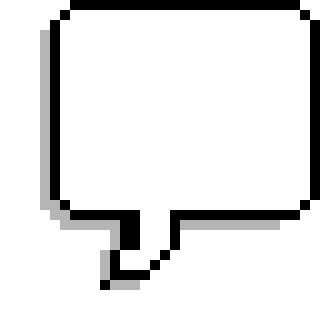
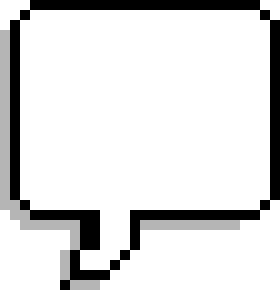
many changes
text now animates

Changed region(s): [[0.0, 0.0, 1.0, 1.0]]

diff --git a/web00.html b/web00.html
@@ -48,15 +48,15 @@ Yeet: <input type="text" id='userInput' required> </input>
 <button onmouseover="test();moveAdam();">ok</button>
 	
 <div id="container">	
-    <div id="animate" onmouseover="moveAdam(true)" onmouseleave="">	
-	    <div id = "animateHead"><img src="adamHead.png">
+    <div id="animate" style='top:0px'>	
+	    <div id = "animateHead" style='top:0px'><img src="adamHead.png">
 	    </div>
 		
-	    <div id ="animateMouth">
+	    <div id ="animateMouth" style='top:0px'>
 		<img src="adamMouth.png" alt="adam sandler finds an abandoned shoe in the woods">
 	    </div>
 		
-		<div id="speechBubble"><img src="speech.png" onmouseover="speechWobble(true);talkAdam(true);playAudio('voice');" onmouseleave="pauseAudio('voice')" align="right">
+		<div id="speechBubble" onmouseover="speechWobble(true);playAudio('voice');" onmouseleave="pauseAudio('voice')" style='top:0px'><img src="speech.png" align="right">
 		</div>
 	</div>
 </div>
@@ -72,9 +72,25 @@ function pauseAudio(id){
     var oAudio = document.getElementById(id);
 	oAudio.pause();
 	}
-//This script moves adam sandlers head
+//This script moves adam sandlers  (using jQuery)
 
-function moveAdam(condition) {
+$('#animate').hover(function(e){
+	to = window.setInterval(doStuff, 5)
+	var elem = document.getElementById("animate")
+	var pos = parseInt(elem.style.top)
+	//console.log(pos)
+	function doStuff(){
+		pos++;
+		//console.log(pos)
+		elem.style.top = pos + "px"
+		//console.log('test output')
+	}
+}, function(e){window.clearInterval(to);
+
+})
+
+
+/*function moveAdam(condition) {
     var elem = document.getElementById("animate");
     var pos = elem.style.top;
     var id = setInterval(frame,5);
@@ -90,8 +106,34 @@ function moveAdam(condition) {
         }    
     }
 }
+*/
 //This script makes adam sandler talk
-function talkAdam(condition){
+
+
+$('#speechBubble').hover(function(e){
+	toMouth = window.setInterval(doStuff, 150)
+	var elem = document.getElementById("animateMouth")
+	elem.style.top = 0
+	var pos = parseInt(elem.style.top)
+	var upDown = true
+	//console.log(pos)
+	function doStuff(){
+		if (upDown){
+			pos+=8;
+			upDown=false;
+		}else{
+			pos-=8
+			upDown=true;
+		}
+		//console.log(pos)
+		elem.style.top = pos + "px"
+		//console.log('test output')
+	}
+}, function(e){window.clearInterval(toMouth);
+
+})
+
+/*function talkAdam(condition){
 	var elem = document.getElementById("animateMouth")
 	var pos = elem.style.top;
 	var id =setInterval(frame2,100);
@@ -111,6 +153,8 @@ function talkAdam(condition){
 	}
 	}
 }
+
+*/
 //This wobbles the text box
 function speechWobble(condition) {
     var elem = document.getElementById("speechBubble");
@@ -139,6 +183,16 @@ function  test(){
     var userInput = document.getElementById("userInput").value;
     document.getElementById("demo").innerHTML = userInput;
 	}
+	
+if ( window.addEventListener ) {  
+  var state = 0, konami = [38,38,40,40,37,39,37,39,66,65];  
+  window.addEventListener("keydown", function(e) {  
+    if ( e.keyCode == konami[state] ) state++;  
+    else state = 0;  
+    if ( state == 10 )  
+      window.location = "omfgdogs.html";  //you can write your own code here
+    }, true);  
+}  
 </script>
 </body>
 
@@ -146,4 +200,4 @@ function  test(){
 
 
 
-</htrml>
+</html>

diff --git a/index.html b/index.html
@@ -24,9 +24,10 @@
     position: absolute;
 }
 #speechBubble{
-    width: 600px;
-    height: 600px;
+    width: 280px;
+    height: 200px;
     position: absolute;
+	left: 200px;
 }
 
 </style>
@@ -56,12 +57,42 @@ Yeet: <input type="text" id='userInput' required> </input>
 		<img src="adamMouth.png" alt="adam sandler finds an abandoned shoe in the woods">
 	    </div>
 		
-		<div id="speechBubble" onmouseover="speechWobble(true);playAudio('voice');" onmouseleave="pauseAudio('voice')" style='top:0px'><img src="speech.png" align="right">
+		<div id="speechBubble" onmouseover="playAudio('voice')" onmouseleave ="pauseAudio('voice')" align='right' style='top:-20px; left:300px'>
+		<img src="speech.png" align = 'right' style = 'position:absolute; left:0px'>
+		<p id="speechText" align = 'left' style = 'position:absolute; left:20px; right:10px' >Please hover over me!</p>
 		</div>
 	</div>
 </div>
 
 <script>
+speechWobble(true);
+STRING="shampoo is better, I go on first and clean the hair"
+DISPLAYSTRING = ""
+DISPLAYSTRINGCOUNT = 0
+//Animates the text.
+/*function animateText(string){
+	var stringArray = string.split("");
+	DISPLAYSTRING += stringArray[DISPLAYSTRINGCOUNT];
+	DISPLAYSTRINGCOUNT+=1;
+	document.getElementById("speechText").innerHTML = DISPLAYSTRING;
+}*/
+//Animates the text
+$('#animate').hover(function(e){
+	toSpeech = window.setInterval(doStuff, 100)
+	var elem = document.getElementById("speechText")
+	var pos = parseInt(elem.style.top)
+	var stringArray = STRING.split("");
+	//console.log(pos)
+	function doStuff(){
+		if (stringArray[DISPLAYSTRINGCOUNT] != undefined){
+		DISPLAYSTRING += stringArray[DISPLAYSTRINGCOUNT];
+		DISPLAYSTRINGCOUNT+=1;
+		elem.innerHTML = DISPLAYSTRING;
+	}
+	}
+}, function(e){window.clearInterval(toSpeech);
+
+})
 
 //Play's whatever audio file needs doing.
 function playAudio(id){
@@ -111,7 +142,7 @@ $('#animate').hover(function(e){
 
 
 $('#speechBubble').hover(function(e){
-	toMouth = window.setInterval(doStuff, 150)
+	toMouth = window.setInterval(doStuff, 100)
 	var elem = document.getElementById("animateMouth")
 	elem.style.top = 0
 	var pos = parseInt(elem.style.top)
@@ -157,11 +188,13 @@ $('#speechBubble').hover(function(e){
 */
 //This wobbles the text box
 function speechWobble(condition) {
+	console.log(condition)
     var elem = document.getElementById("speechBubble");
     var pos = elem.style.top;
-    var id = setInterval(frame1,600);
+    var id = setInterval(frame4,600);
 	var upDown= true;
-    function frame1(){
+	pos = parseInt(pos)
+    function frame4(){
         if(condition==false){
 	        clearInterval(id);
 	    }else{
@@ -192,7 +225,7 @@ if ( window.addEventListener ) {
     if ( state == 10 )  
       window.location = "omfgdogs.html";  //you can write your own code here
     }, true);  
-}  
+}   
 </script>
 </body>
 
